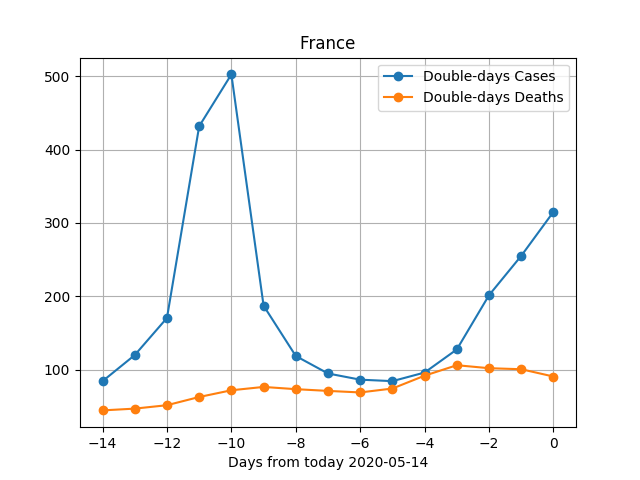
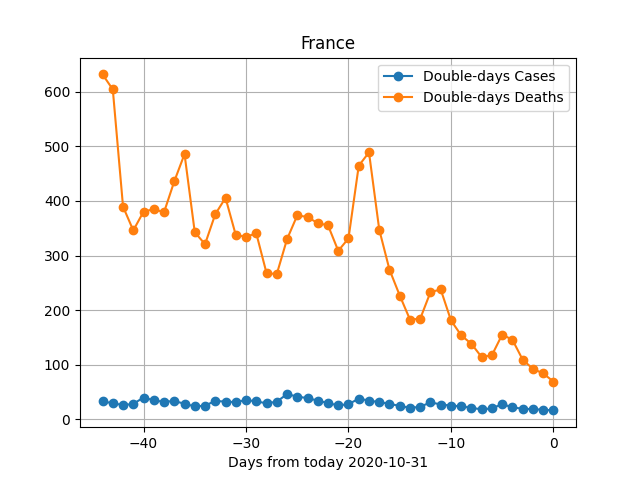
update

diff --git a/scripts/my_analysis.py b/scripts/my_analysis.py
@@ -131,8 +131,8 @@ def model_analysis(country1):
      print("day   tomorrowC    tomorrowD      todayC        todayD    real-prevision   real-prevision  coeC coeD")
 
      tomorrowC_old, tomorrowD_old, todayC_old, todayD_old = 0,0,0,0
-     ndays = 15
-     out = numpy.zeros((15,9))
+     ndays = 45
+     out = numpy.zeros((ndays,9))
      for i,day in enumerate(range(0,-ndays,-1)):
          tomorrowC, tomorrowD, todayC, todayD, poptC,poptD = analyze_country(country1,do_plot=False,day=day)
          print("%2d   %d         %d         %d      %d     %d    %d   %2.1f  %2.1f"%\
@@ -167,12 +167,17 @@ def model_analysis(country1):
      # # plt.savefig(country1+"_1.png")
      # plt.show()
 
+     if (out[:, 6]).max() > 3000:
+         yrange=[0,3000]
+     else:
+         yrange = None
+
      plot(out[:, 0], out[:, 5],
           out[:, 0], out[:, 6],
           legend=["Double-days Cases", "Double-days Deaths"],marker=['o','o'],
           title=country1,
           xtitle="Days from today %s" % date.today(),
-          # yrange=[1,9],
+          yrange=yrange,
           show=0)
      plt.grid(True)
      filepng = "../figures/%s_x2.png"%country1
@@ -202,11 +207,11 @@ def new_cases(country1):
     #      legend=["New cases","New deaths"])
 
     plt.bar(t1[1:], c1[1:] - c1[0:-1])
-    plt.bar(t1[1:], d1[1:] - d1[0:-1], )
-    plt.title(country1)
+    plt.bar(t1[1:], 10 * (d1[1:] - d1[0:-1]), )
+    plt.title(country1 + " Cases (+%d); Deaths (+%d)" % ((c1[1:] - c1[0:-1])[-1], (d1[1:] - d1[0:-1])[-1]))
     plt.xlabel("Days from today %s" % date.today())
-    plt.ylabel("Cases/deaths per day")
-    plt.legend(labels=['Cases (+%d)' % (c1[1:] - c1[0:-1])[-1], 'Deaths (+%d)' % (d1[1:] - d1[0:-1])[-1]])
+    plt.ylabel("Cases (blue) or 10*deaths (orange) per day")
+    plt.legend(labels=['Cases', '10 * Deaths'])
     # plt.grid(True)
     filepng = "../figures/%s_new_cases.png" % country1
     plt.savefig(filepng)
@@ -218,14 +223,14 @@ def new_cases(country1):
 if __name__ == "__main__":
 
 
-    for country1 in  ["France","Spain","Italy","US"]:
+    for country1 in  ["France","Spain","Italy","US","Switzerland"]:
         new_cases(country1)
 
-    for country1 in ["France","Spain","Italy","US"]:
+    for country1 in ["France","Spain","Italy","US","Switzerland"]:
         analyze_country(country1)
 
-    italy_vs_spain()
+    # italy_vs_spain()
 
-    for country1 in ["France","Spain","Italy","US"]:
+    for country1 in ["France","Spain","Italy","US","Switzerland"]:
         model_analysis(country1)
      
